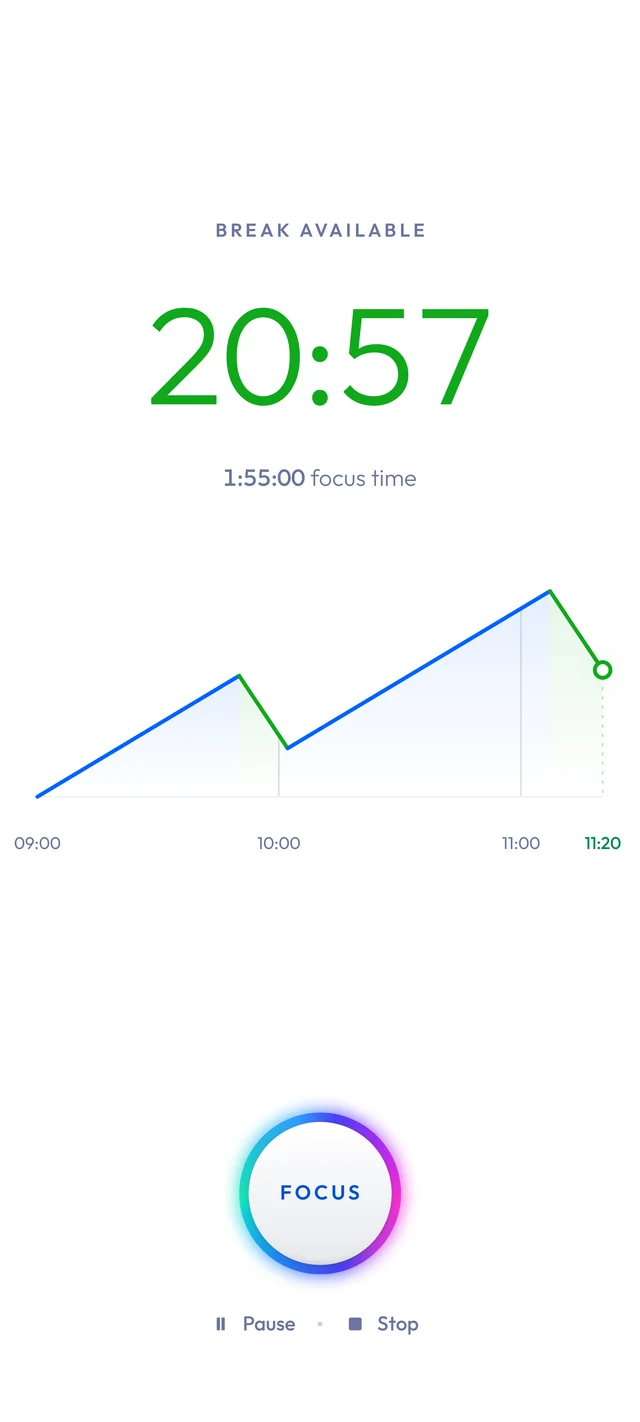
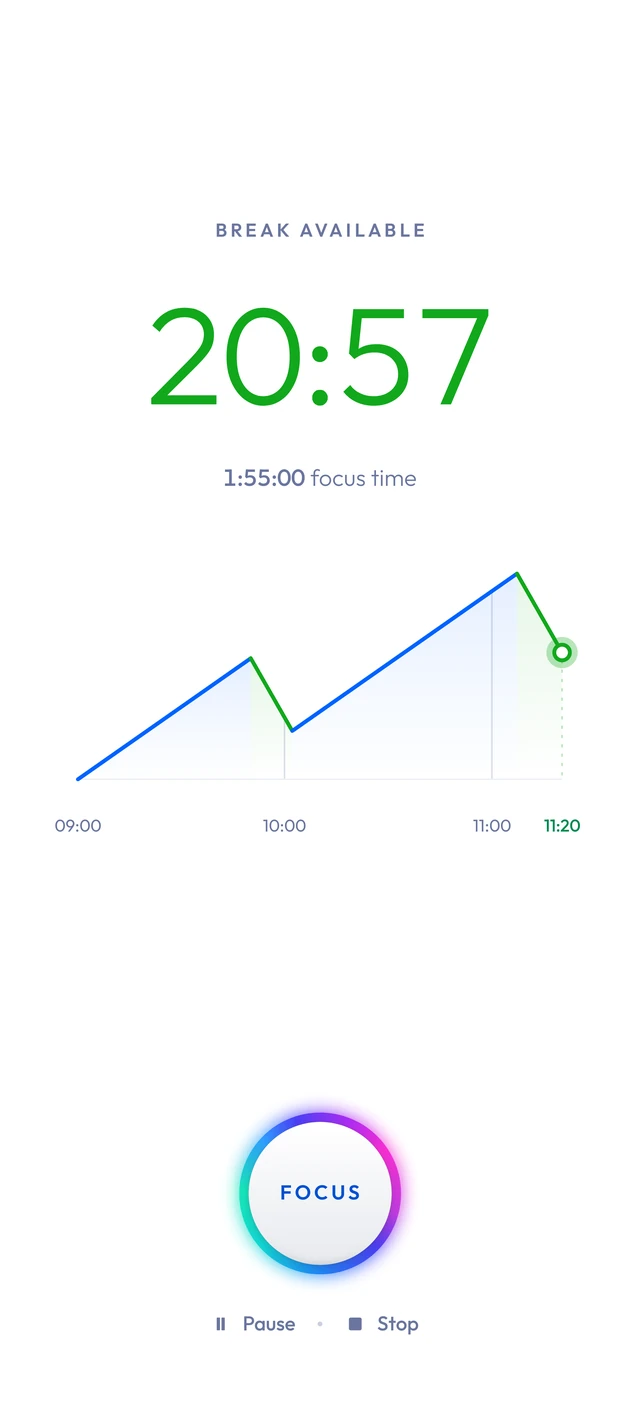
Borrowed in pink, as in the app; the phone shots retaken with the narrower graph
Claude-Session: https://claude.ai/code/session_01QUsFgXRgxkXJhwDW2Xe5Uu

diff --git a/index.html b/index.html
@@ -15,7 +15,7 @@
 <style>
 :root { color-scheme: only light;
   --text: #2E365A; --muted: #5C678F; --faint: #8C95B6; --rule: #E6E9F1; --soft: #F5F6FA;
-  --focus: #0050D1; --break: #0B8F12; --owe: #C80000;
+  --focus: #0050D1; --break: #0B8F12; --owe: #C21FA6;
   --ring: conic-gradient(from 95deg, #13D0D9 0%, #17E6B8 9%, #2F9CFF 25%, #4B3EF5 33%, #B62BF0 45%, #F72FD1 57%, #C13BE0 67%, #4B3EF5 75%, #1D8CF8 89%, #13D0D9 100%);
   --word: linear-gradient(90deg, #0FAEC4 0%, #2F9CFF 22%, #4B3EF5 50%, #B62BF0 76%, #D124B4 100%); }
 * { box-sizing: border-box; }
@@ -58,7 +58,7 @@ figcaption { margin-top: 18px; font-size: 16px; line-height: 1.55; color: var(--
 .chip { font-size: 15px; font-weight: 500; line-height: 1; padding: 11px 18px; border-radius: 999px; color: #fff; box-shadow: 0 6px 14px -8px rgba(20,26,51,.5); }
 .work { background: linear-gradient(90deg, #2B7BFF, #0050D1); }
 .relief { background: linear-gradient(90deg, #1DB92A, #0B8F12); }
-.scroll { background: linear-gradient(90deg, #F0322B, #C80000); }
+.scroll { background: linear-gradient(90deg, #E62EC6, #C21FA6); }
 .ghost { color: var(--faint); border: 1.5px dashed #B9BFD2; background: transparent; box-shadow: none; text-decoration: line-through; text-decoration-thickness: 1.5px; }
 .arrow { width: 26px; height: 2px; background: #8C95B6; position: relative; }
 .arrow::after { content: ""; position: absolute; right: -1px; top: -4px; border: 5px solid transparent; border-left: 6px solid #8C95B6; border-right: 0; }
@@ -176,7 +176,7 @@ html[data-theme="dark"] {
   <figure class="shots">
     <div class="phone"><img src="img/focus.webp" alt="Focusing: 34 minutes of break earned, the graph climbing in blue."></div>
     <div class="phone"><img src="img/break.webp" alt="On a break: the break counts down, the line falls in green."></div>
-    <div class="phone"><img src="img/over.webp" alt="Borrowed: past zero, the line dips in red."></div>
+    <div class="phone"><img src="img/over.webp" alt="Borrowed: past zero, the line dips in pink."></div>
   </figure>
 
   <p>This way, you’re teaching your brain that <b>reward comes after the work</b> — and that sustained focus is something worth doing.</p>
